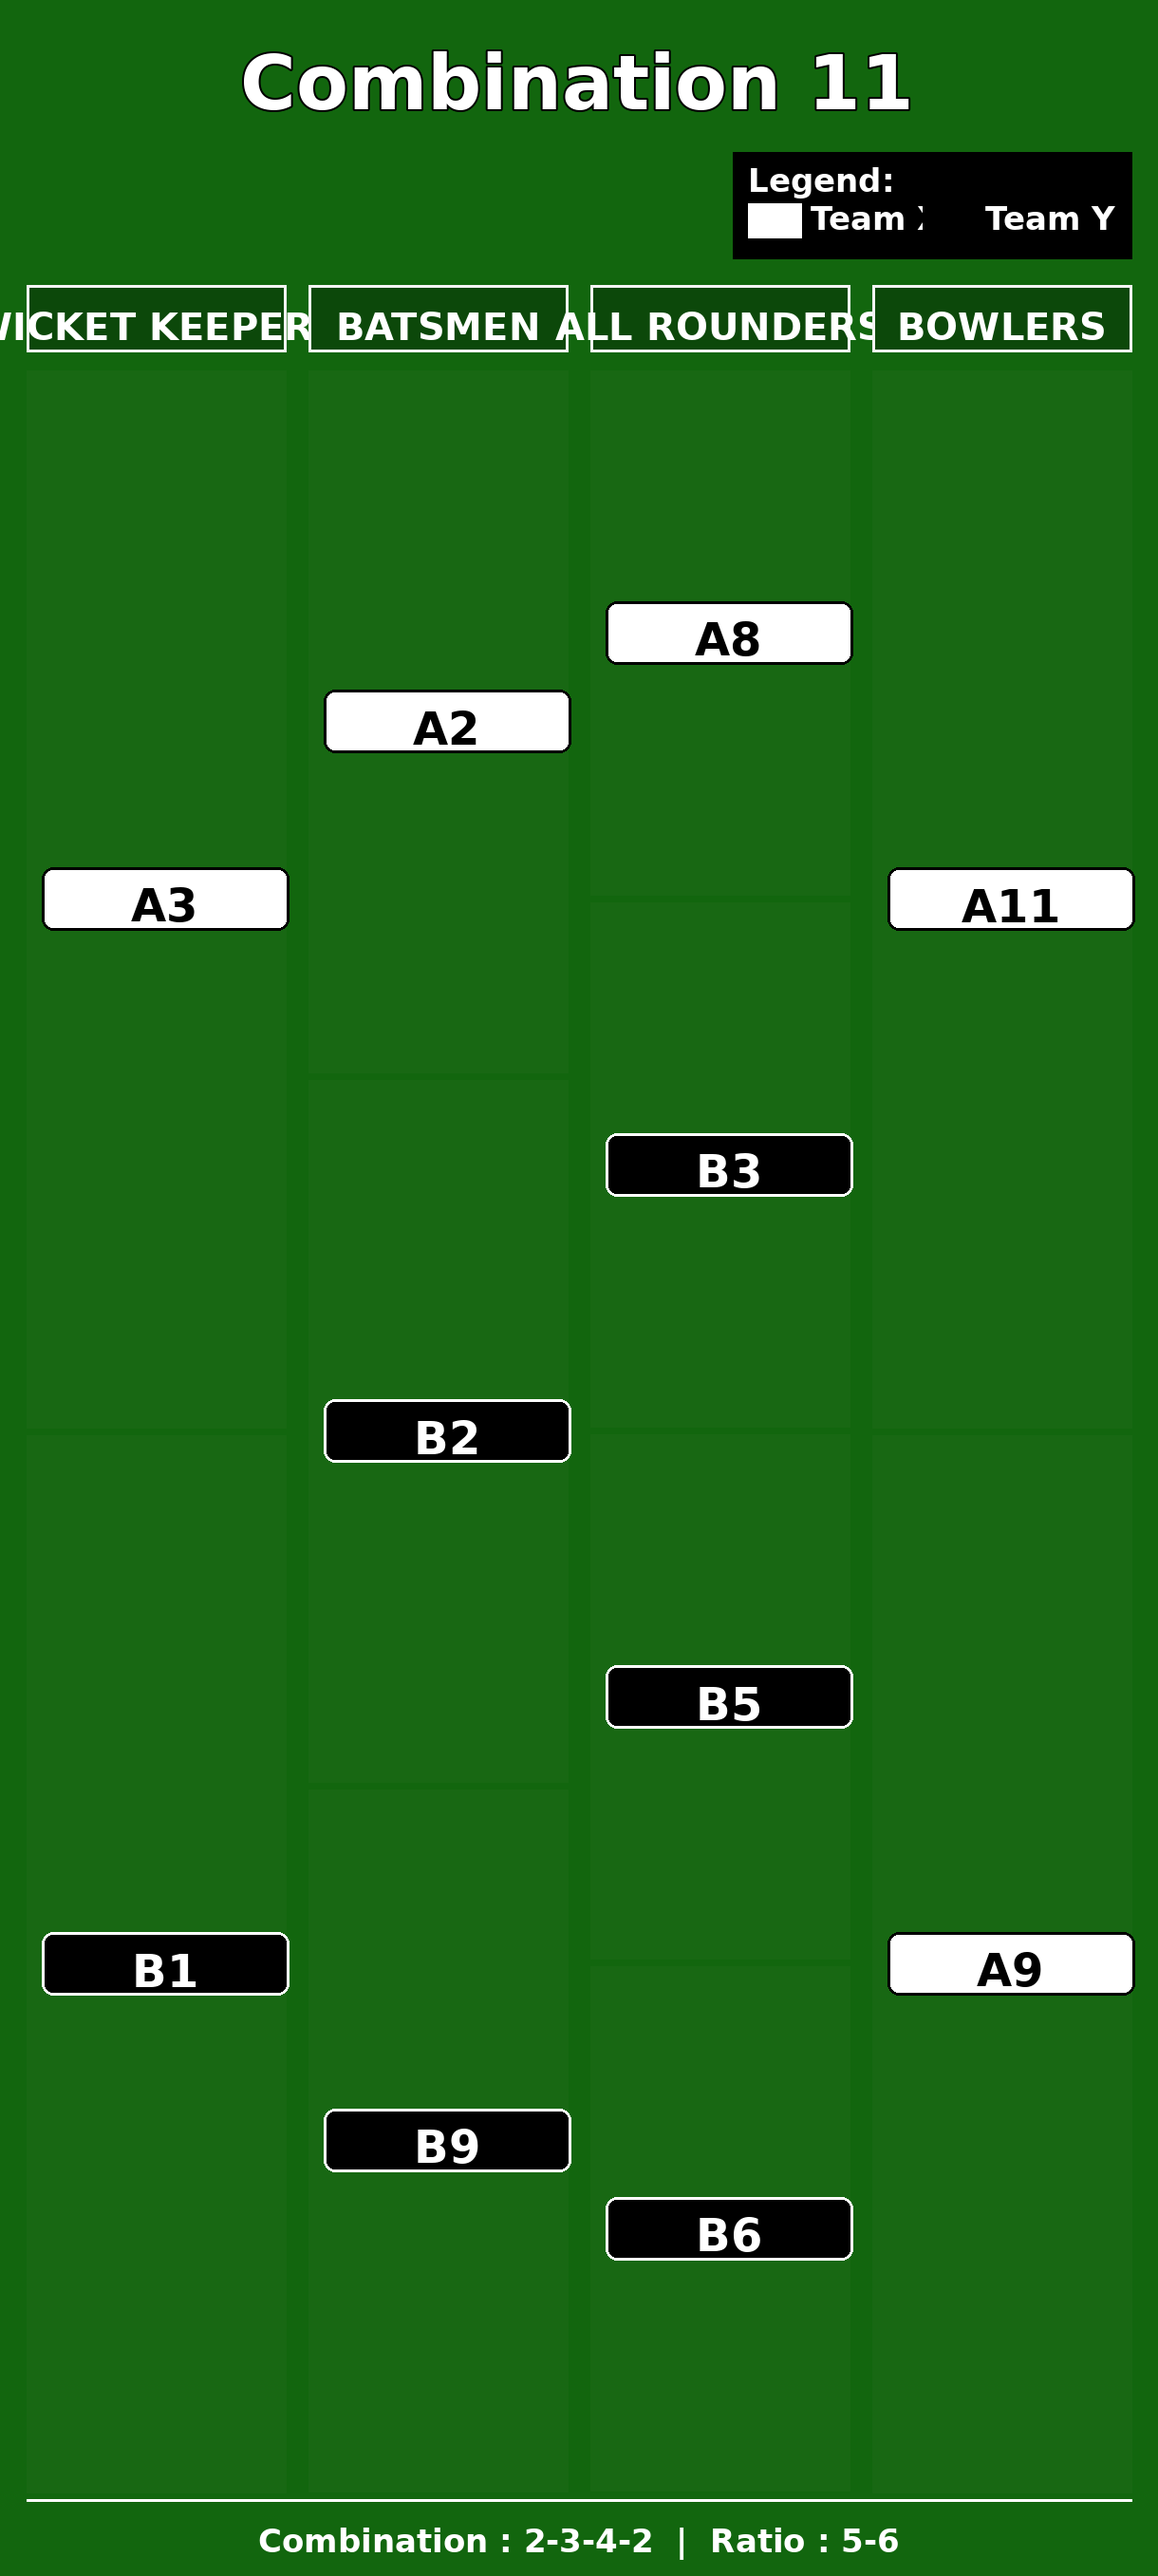
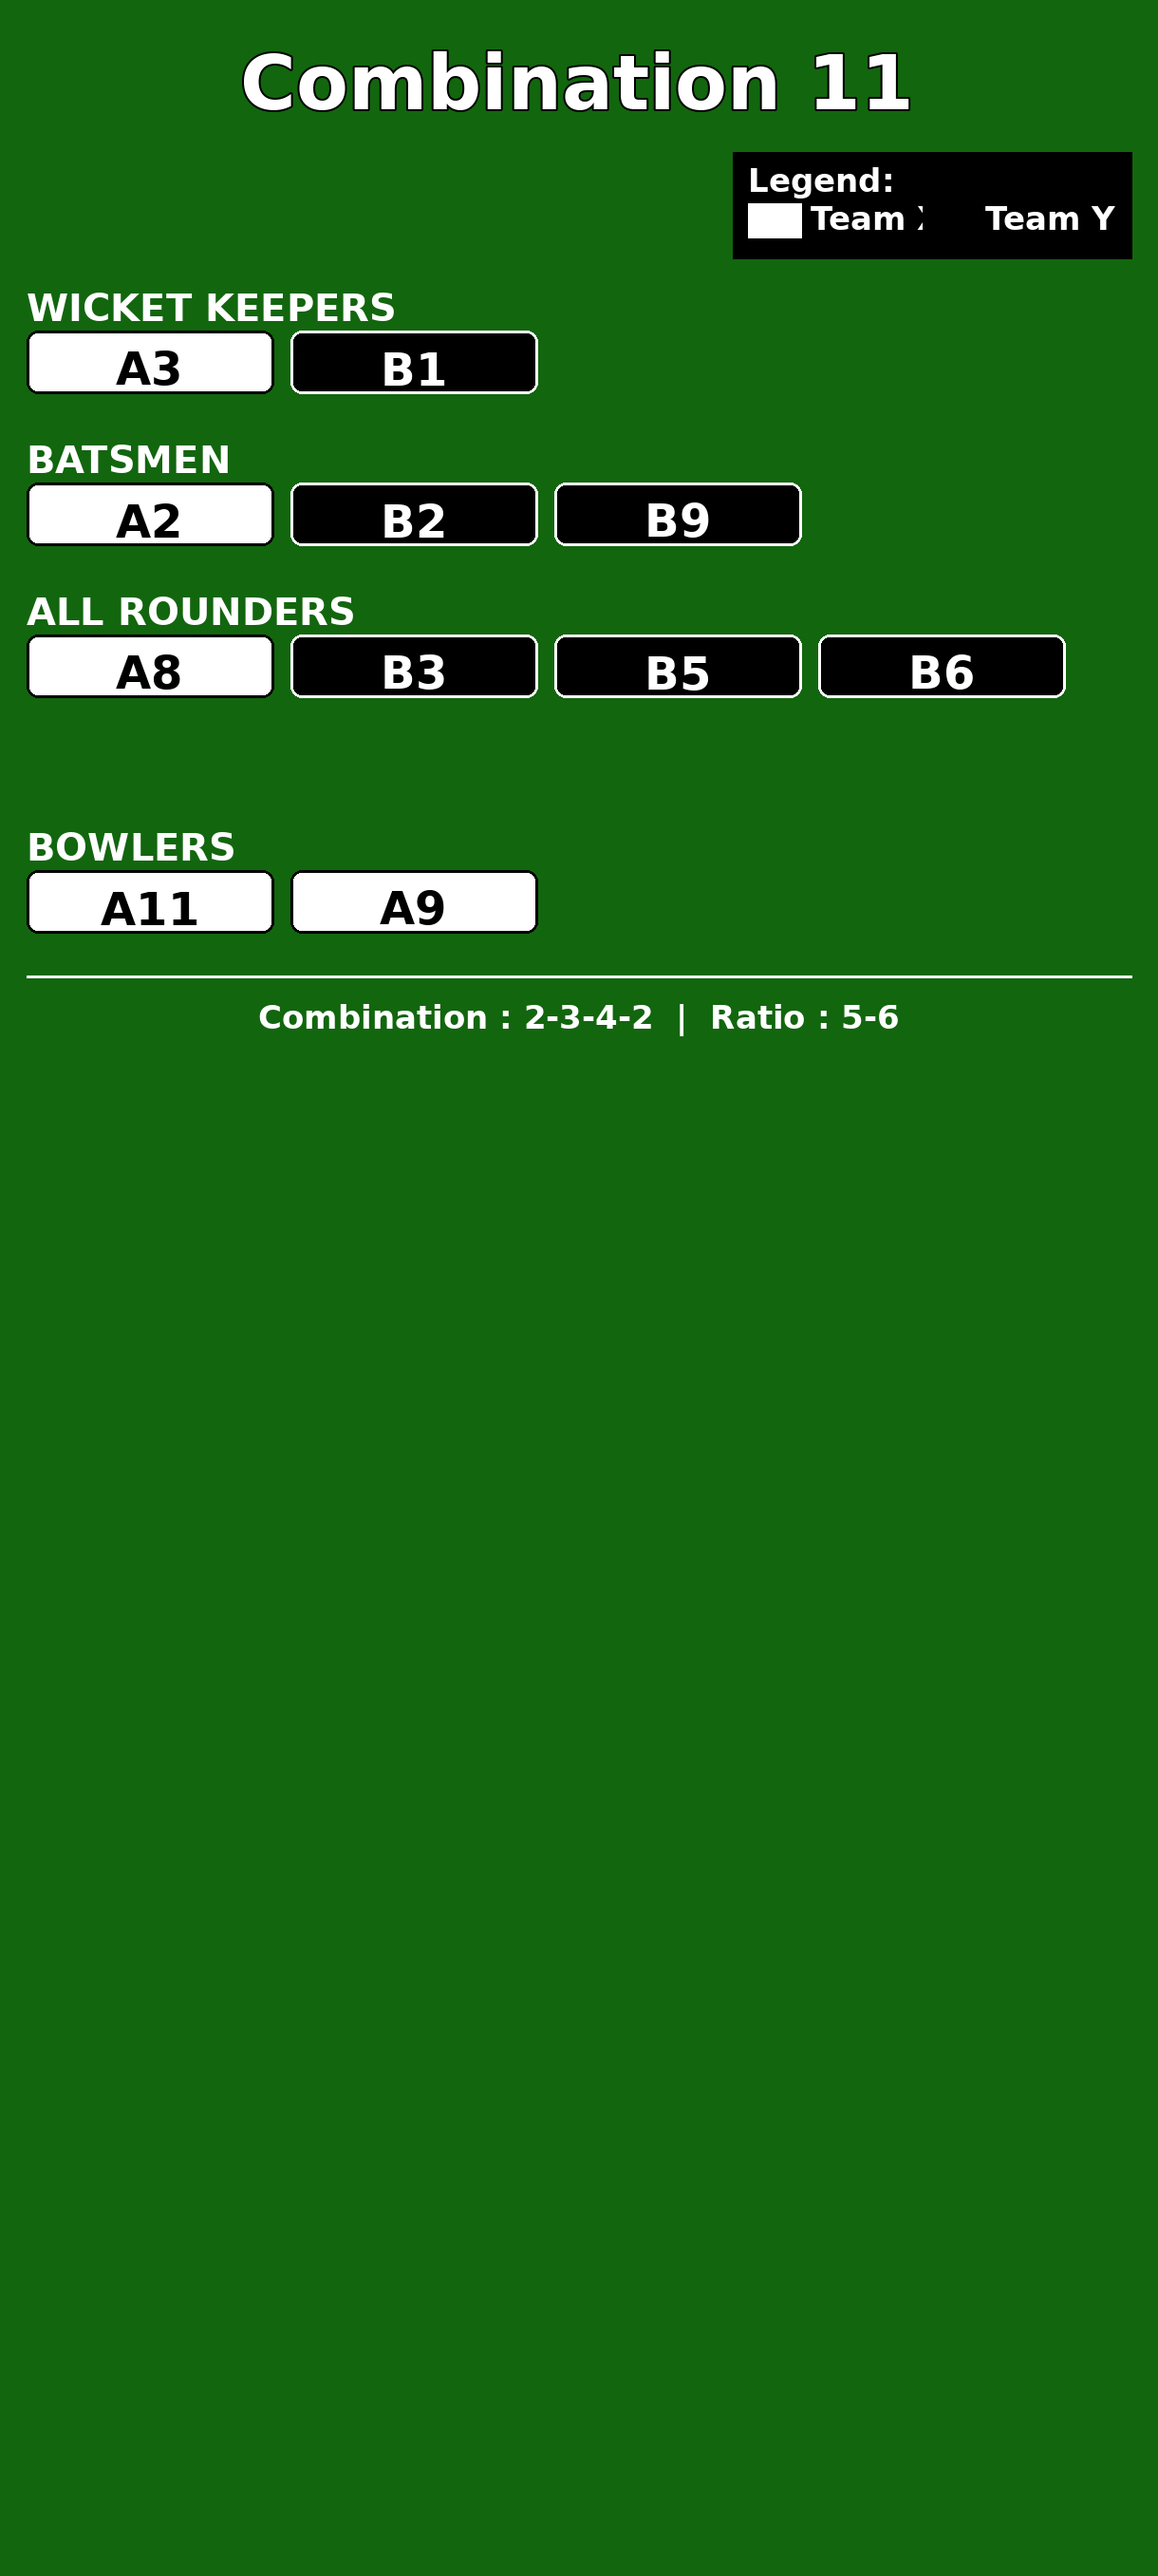
Refactor player grid to use wrapping horizontal chips with dynamic layout

diff --git a/generate_combinations.py b/generate_combinations.py
@@ -116,9 +116,8 @@ def render_combination_image(
     top_margin = 40
     title_y = top_margin
     legend_top = title_y + 120
-    header_top = legend_top + 140
+    sections_top = legend_top + 140
     side_padding = 28
-    inter_col = 24
     footer_height = 80
 
     # Title (centered) — only "Combination N"
@@ -136,50 +135,56 @@ def render_combination_image(
     draw.rectangle([legend_x + 200, legend_top + 54, legend_x + 200 + 56, legend_top + 54 + 36], fill=(0, 0, 0))
     draw.text((legend_x + 200 + 66, legend_top + 50), "Team Y", font=small_font, fill=(255, 255, 255))
 
-    # Columns
-    num_cols = len(ROLE_ORDER)
-    col_width = (CANVAS_WIDTH - side_padding * 2 - inter_col * (num_cols - 1)) // num_cols
-    col_x = [side_padding + i * (col_width + inter_col) for i in range(num_cols)]
+    # Sectioned layout: for each role, draw heading then chips that wrap horizontally
+    y_cursor = sections_top
+    usable_width = CANVAS_WIDTH - side_padding * 2
+    chip_w, chip_h = 260, 66
+    gap_x, gap_y = 18, 22
 
-    # Headers with boxes
-    header_height = 70
-    for idx, role in enumerate(ROLE_ORDER):
-        x = col_x[idx]
-        header_label = {"WK": "WICKET KEEPERS", "BAT": "BATSMEN", "ALL": "ALL ROUNDERS", "BOWL": "BOWLERS"}[role]
-        draw.rectangle([x, header_top, x + col_width, header_top + header_height], fill=(12, 72, 10), outline=(245, 245, 245), width=3)
-        hw, hh = _text_size(draw, header_label, header_font)
-        draw.text((x + (col_width - hw) // 2, header_top + (header_height - hh) // 2), header_label, font=header_font, fill=(255, 255, 255))
+    def draw_role_section(role_key: str, y: int) -> int:
+        role_label = {"WK": "WICKET KEEPERS", "BAT": "BATSMEN", "ALL": "ALL ROUNDERS", "BOWL": "BOWLERS"}[role_key]
+        # Role heading
+        hw, hh = _text_size(draw, role_label, header_font)
+        draw.text((side_padding, y), role_label, font=header_font, fill=(255, 255, 255))
+        y += hh + 18
 
-    # Player grid region
-    player_top = header_top + header_height + 20
-    player_bottom = CANVAS_HEIGHT - footer_height
-    grid_height = player_bottom - player_top
+        # Wrap chips on one or two rows as needed
+        names = comb.roles.get(role_key, [])
+        if not names:
+            return y + 10
 
-    # Render each column independently so players stack under their correct role
-    min_row_h = 90
-    for col_idx, role in enumerate(ROLE_ORDER):
-        x = col_x[col_idx]
-        names = comb.roles.get(role, [])
-        num_rows = max(1, len(names))
-        row_h = max(min_row_h, grid_height // num_rows)
-
-        for r, name in enumerate(names):
-            y = player_top + r * row_h
-            # Column-local background band
-            draw.rectangle([x, y, x + col_width, y + row_h - 8], fill=(24, 104, 19))
+        # Compute how many chips fit per row
+        per_row = max(1, (usable_width + gap_x) // (chip_w + gap_x))
+        row = 0
+        col = 0
+        for name in names:
+            x = side_padding + col * (chip_w + gap_x)
+            cy = y + row * (chip_h + gap_y)
 
             team_id = team_lookup.get(name.upper(), "x")
-            chip_w, chip_h = 260, 66
-            chip_x = x + 16
-            chip_y = y + (row_h - chip_h) // 2 - 4
             chip_fill = (255, 255, 255) if team_id == "x" else (0, 0, 0)
             chip_outline = (0, 0, 0) if team_id == "x" else (255, 255, 255)
-            draw.rounded_rectangle([chip_x, chip_y, chip_x + chip_w, chip_y + chip_h], radius=12, fill=chip_fill, outline=chip_outline, width=3)
+            draw.rounded_rectangle([x, cy, x + chip_w, cy + chip_h], radius=12, fill=chip_fill, outline=chip_outline, width=3)
 
             text_fill = (0, 0, 0) if team_id == "x" else (255, 255, 255)
-            tw, th = _text_size(draw, name, player_font)
-            draw.text((chip_x + (chip_w - tw) // 2, chip_y + (chip_h - th) // 2 - 2), name, font=player_font, fill=text_fill)
+            tw2, th2 = _text_size(draw, name, player_font)
+            draw.text((x + (chip_w - tw2) // 2, cy + (chip_h - th2) // 2 - 2), name, font=player_font, fill=text_fill)
 
+            col += 1
+            if col >= per_row:
+                col = 0
+                row += 1
+
+        # Advance y past last row of chips
+        y += (row + 1) * (chip_h + gap_y)
+        y += 24  # extra spacing before next section
+        return y
+
+    # Draw each role section stacked vertically
+    for role in ROLE_ORDER:
+        y_cursor = draw_role_section(role, y_cursor)
+
+    player_bottom = y_cursor
     # Footer divider line
     draw.line([(side_padding, player_bottom), (CANVAS_WIDTH - side_padding, player_bottom)], fill=(255, 255, 255), width=3)
 
